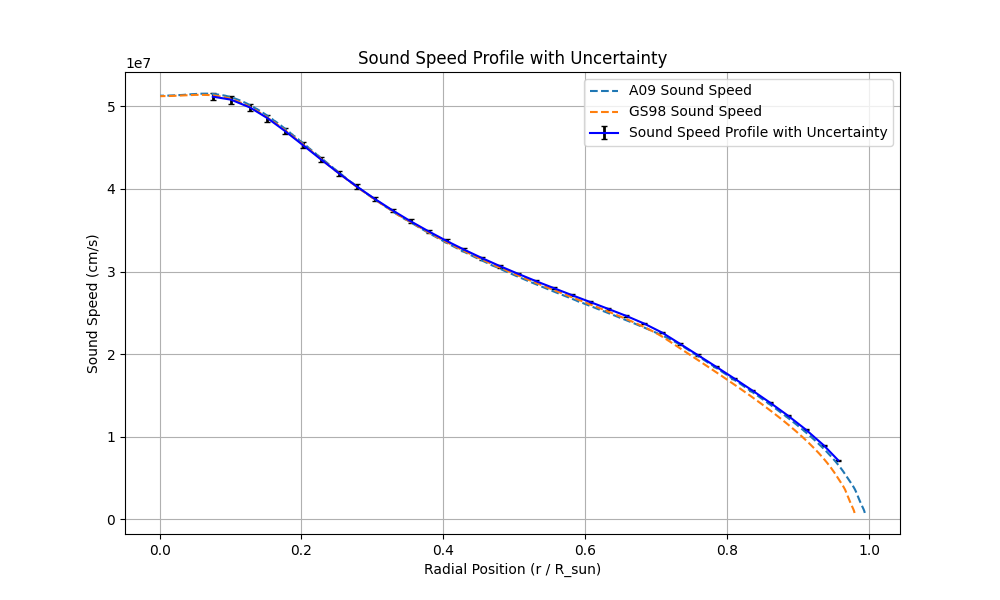
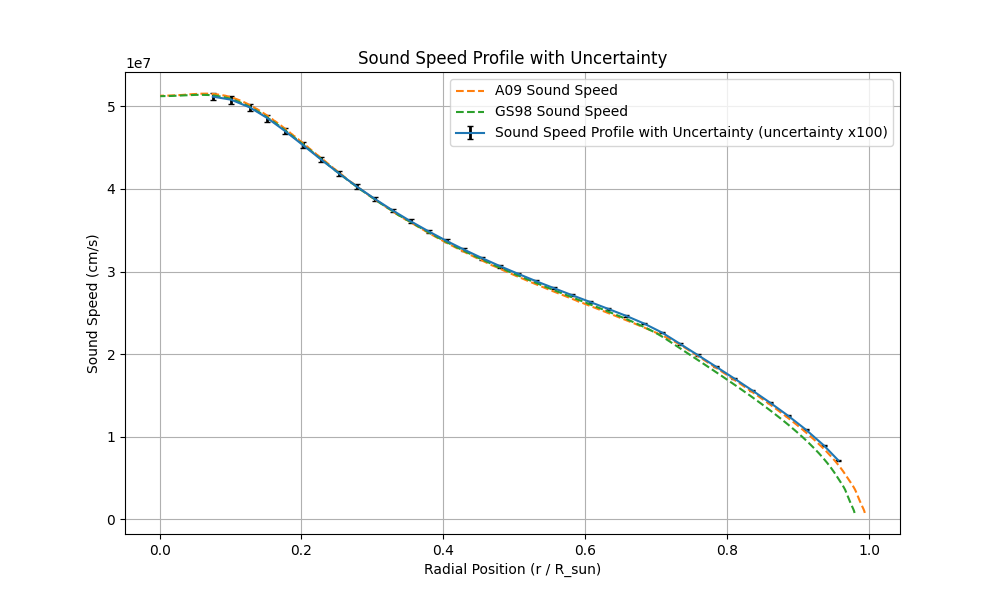
new color choice

diff --git a/sound_speed.py b/sound_speed.py
@@ -115,8 +115,8 @@ residuals_a09 = (f_exp(r_vals) - f_a09(r_vals)) / f_a09(r_vals)
 
 ## First Plot: Theoretical sound speed profile with uncertainty
 plt.figure(figsize=(10, 6))
-plt.errorbar(data['r_Rsun'], data['sound_speed'], yerr=data['Sigma_c'] * A, color='blue',
-             ecolor='k', elinewidth=2, capsize=2, label='Sound Speed Profile with Uncertainty')
+plt.errorbar(data['r_Rsun'], data['sound_speed'], yerr=data['Sigma_c'] * A,
+             ecolor='k', elinewidth=2, capsize=2, label='Sound Speed Profile with Uncertainty (uncertainty x100)')
 plt.plot(radial_position_a09, sound_speed_a09, label="A09 Sound Speed", linestyle='--')
 plt.plot(radial_position_gs98, sound_speed_gs98, label="GS98 Sound Speed", linestyle='--')
 plt.xlabel('Radial Position (r / R_sun)')
